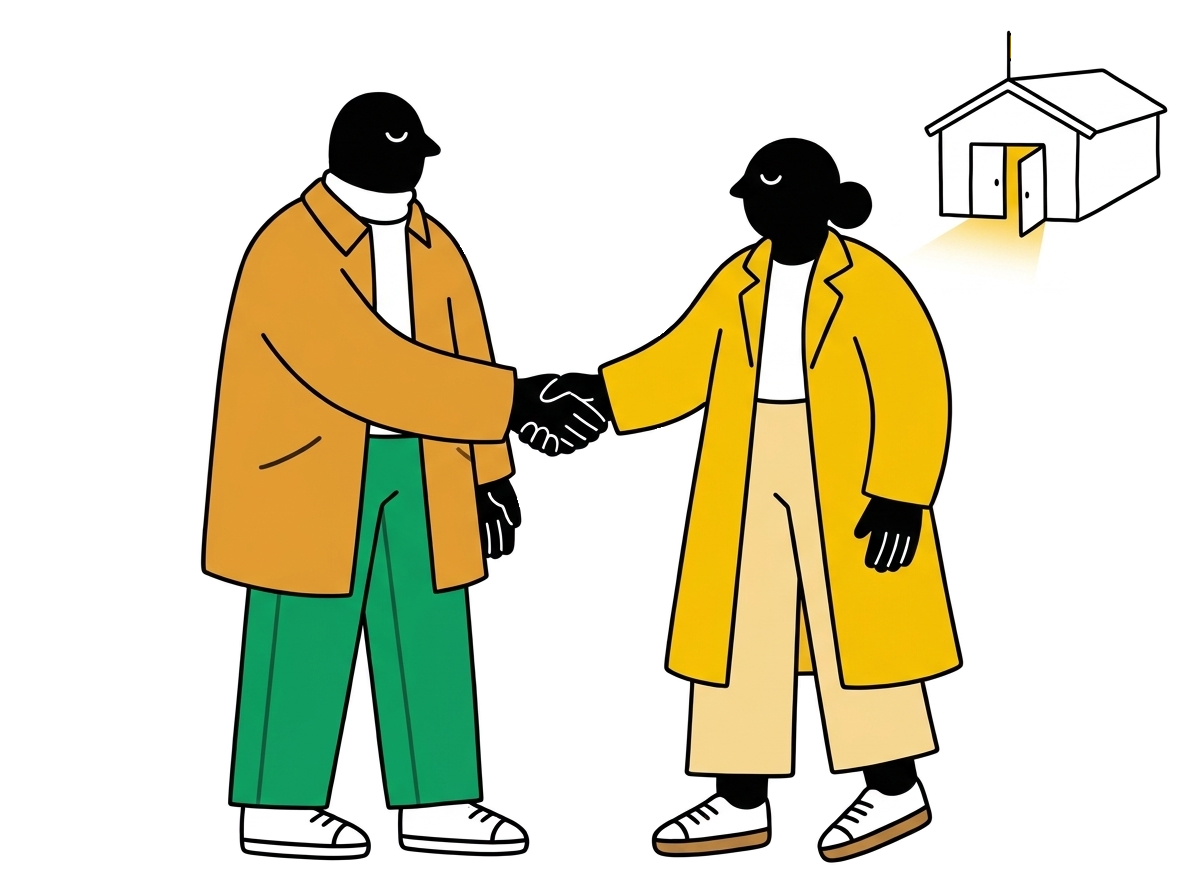
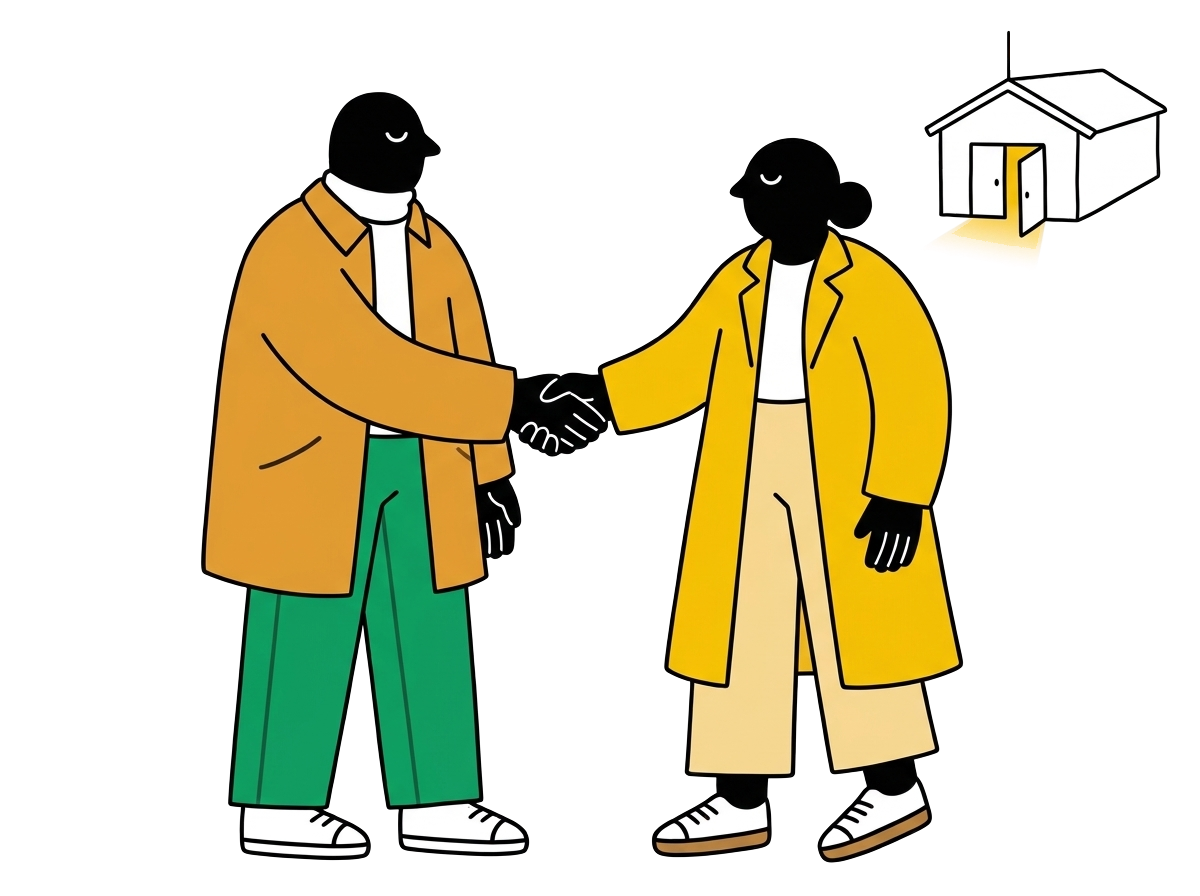
White-outline illustrations for the hero and Join band
Hero uses hero-art-outline; the steam lines get a matching thin white
outline. Join art is rebuilt from handshake-outline with the dots, flag
and sparks lifted into animated layers; the flag gets the white outline,
the dots and sparks stay plain yellow.

Changed region(s): [[0.7708, 0.25, 0.8942, 0.3125]]

diff --git a/index.html b/index.html
@@ -39,6 +39,7 @@ body{font-size:20px}
 .part picture,.part .hero-art{display:block;width:100%;height:auto;aspect-ratio:1/1}
 .psteam{position:absolute;inset:0;width:100%;height:100%;overflow:visible;pointer-events:none}
 .stm{transform-box:view-box}
+.psteam .sw-under{stroke:#fff;stroke-width:8.25} /* thin white outline, matching the drawing */
 @media (prefers-reduced-motion:no-preference){
   .stm{animation:steam 3s ease-in-out infinite}
   .stm2{animation-delay:-1.2s}
@@ -237,10 +238,10 @@ body{font-size:20px}
     <p class="psub">Firms ask for your expertise. They donate to the charity you choose: 100% of it, every time.</p>
     <div class="part">
       <picture>
-        <source srcset="images/hero-art-plain.webp" type="image/webp">
-        <img class="hero-art" src="images/hero-art-plain.png" width="1024" height="1024" fetchpriority="high" decoding="async" alt="Three people chatting over coffee at a round table: one typing on a laptop, one holding a mug, one thinking with a hand at his chin.">
+        <source srcset="images/hero-art-outline.webp" type="image/webp">
+        <img class="hero-art" src="images/hero-art-outline.png" width="1024" height="1024" fetchpriority="high" decoding="async" alt="Three people chatting over coffee at a round table: one typing on a laptop, one holding a mug, one thinking with a hand at his chin.">
       </picture>
-      <svg class="psteam" viewBox="0 0 1024 1024" aria-hidden="true" fill="none" stroke="#141414" stroke-width="3.3" stroke-linecap="round" stroke-linejoin="round"><g class="stm stm1"><path d="M417.5 440.0 C417.2 440.5 416.1 442.0 415.5 443.0 C414.9 444.0 414.1 445.0 414.0 446.0 C413.9 447.0 414.6 448.0 415.0 449.0 C415.4 450.0 415.8 451.0 416.5 452.0 C417.2 453.0 418.4 454.0 419.0 455.0 C419.6 456.0 419.8 457.0 420.0 458.0 C420.2 459.0 420.2 460.0 420.0 461.0 C419.8 462.0 419.0 463.2 418.5 464.0 C418.0 464.8 417.2 465.7 417.0 466.0"/><path d="M432.0 430.0 C431.6 430.5 430.2 432.0 429.5 433.0 C428.8 434.0 428.4 435.0 428.0 436.0 C427.6 437.0 427.0 438.0 427.0 439.0 C427.0 440.0 427.5 441.0 428.0 442.0 C428.5 443.0 429.3 444.0 430.0 445.0 C430.7 446.0 431.3 447.0 432.0 448.0 C432.7 449.0 433.6 450.0 434.0 451.0 C434.4 452.0 434.5 453.0 434.5 454.0 C434.5 455.0 434.4 456.0 434.0 457.0 C433.6 458.0 432.7 459.0 432.0 460.0 C431.3 461.0 430.3 462.3 430.0 463.0 C429.7 463.7 430.0 463.8 430.0 464.0"/><path d="M446.5 438.0 C446.1 438.5 444.6 440.0 444.0 441.0 C443.4 442.0 443.2 443.0 443.0 444.0 C442.8 445.0 442.8 446.0 443.0 447.0 C443.2 448.0 443.9 449.0 444.5 450.0 C445.1 451.0 445.9 452.0 446.5 453.0 C447.1 454.0 447.8 455.0 448.0 456.0 C448.2 457.0 448.3 458.0 448.0 459.0 C447.7 460.0 446.7 461.0 446.0 462.0 C445.3 463.0 444.3 464.5 444.0 465.0"/></g><g class="stm stm2"><path d="M595.0 384.0 C594.8 384.5 594.2 386.0 594.0 387.0 C593.8 388.0 593.7 389.0 594.0 390.0 C594.3 391.0 595.3 392.0 596.0 393.0 C596.7 394.0 597.7 395.0 598.0 396.0 C598.3 397.0 598.2 398.0 598.0 399.0 C597.8 400.0 596.8 401.3 596.5 402.0 C596.2 402.7 596.1 402.8 596.0 403.0"/><path d="M608.5 373.0 C608.1 373.5 606.6 375.0 606.0 376.0 C605.4 377.0 605.2 378.0 605.0 379.0 C604.8 380.0 604.8 381.0 605.0 382.0 C605.2 383.0 605.5 384.0 606.0 385.0 C606.5 386.0 607.3 387.0 608.0 388.0 C608.7 389.0 609.7 390.0 610.0 391.0 C610.3 392.0 610.1 393.0 610.0 394.0 C609.9 395.0 609.9 396.0 609.5 397.0 C609.1 398.0 608.0 399.2 607.5 400.0 C607.0 400.8 606.7 401.7 606.5 402.0"/><path d="M621.0 380.0 C620.6 380.5 619.0 382.0 618.5 383.0 C618.0 384.0 617.9 385.0 618.0 386.0 C618.1 387.0 618.6 388.0 619.0 389.0 C619.4 390.0 620.0 391.0 620.5 392.0 C621.0 393.0 621.8 394.0 622.0 395.0 C622.2 396.0 622.3 397.0 622.0 398.0 C621.7 399.0 620.5 400.2 620.0 401.0 C619.5 401.8 619.2 402.7 619.0 403.0"/></g></svg>
+      <svg class="psteam" viewBox="0 0 1024 1024" aria-hidden="true" fill="none" stroke="#141414" stroke-width="3.3" stroke-linecap="round" stroke-linejoin="round"><g class="stm stm1"><path class="sw-under" d="M417.5 440.0 C417.2 440.5 416.1 442.0 415.5 443.0 C414.9 444.0 414.1 445.0 414.0 446.0 C413.9 447.0 414.6 448.0 415.0 449.0 C415.4 450.0 415.8 451.0 416.5 452.0 C417.2 453.0 418.4 454.0 419.0 455.0 C419.6 456.0 419.8 457.0 420.0 458.0 C420.2 459.0 420.2 460.0 420.0 461.0 C419.8 462.0 419.0 463.2 418.5 464.0 C418.0 464.8 417.2 465.7 417.0 466.0"/><path class="sw-under" d="M432.0 430.0 C431.6 430.5 430.2 432.0 429.5 433.0 C428.8 434.0 428.4 435.0 428.0 436.0 C427.6 437.0 427.0 438.0 427.0 439.0 C427.0 440.0 427.5 441.0 428.0 442.0 C428.5 443.0 429.3 444.0 430.0 445.0 C430.7 446.0 431.3 447.0 432.0 448.0 C432.7 449.0 433.6 450.0 434.0 451.0 C434.4 452.0 434.5 453.0 434.5 454.0 C434.5 455.0 434.4 456.0 434.0 457.0 C433.6 458.0 432.7 459.0 432.0 460.0 C431.3 461.0 430.3 462.3 430.0 463.0 C429.7 463.7 430.0 463.8 430.0 464.0"/><path class="sw-under" d="M446.5 438.0 C446.1 438.5 444.6 440.0 444.0 441.0 C443.4 442.0 443.2 443.0 443.0 444.0 C442.8 445.0 442.8 446.0 443.0 447.0 C443.2 448.0 443.9 449.0 444.5 450.0 C445.1 451.0 445.9 452.0 446.5 453.0 C447.1 454.0 447.8 455.0 448.0 456.0 C448.2 457.0 448.3 458.0 448.0 459.0 C447.7 460.0 446.7 461.0 446.0 462.0 C445.3 463.0 444.3 464.5 444.0 465.0"/><path d="M417.5 440.0 C417.2 440.5 416.1 442.0 415.5 443.0 C414.9 444.0 414.1 445.0 414.0 446.0 C413.9 447.0 414.6 448.0 415.0 449.0 C415.4 450.0 415.8 451.0 416.5 452.0 C417.2 453.0 418.4 454.0 419.0 455.0 C419.6 456.0 419.8 457.0 420.0 458.0 C420.2 459.0 420.2 460.0 420.0 461.0 C419.8 462.0 419.0 463.2 418.5 464.0 C418.0 464.8 417.2 465.7 417.0 466.0"/><path d="M432.0 430.0 C431.6 430.5 430.2 432.0 429.5 433.0 C428.8 434.0 428.4 435.0 428.0 436.0 C427.6 437.0 427.0 438.0 427.0 439.0 C427.0 440.0 427.5 441.0 428.0 442.0 C428.5 443.0 429.3 444.0 430.0 445.0 C430.7 446.0 431.3 447.0 432.0 448.0 C432.7 449.0 433.6 450.0 434.0 451.0 C434.4 452.0 434.5 453.0 434.5 454.0 C434.5 455.0 434.4 456.0 434.0 457.0 C433.6 458.0 432.7 459.0 432.0 460.0 C431.3 461.0 430.3 462.3 430.0 463.0 C429.7 463.7 430.0 463.8 430.0 464.0"/><path d="M446.5 438.0 C446.1 438.5 444.6 440.0 444.0 441.0 C443.4 442.0 443.2 443.0 443.0 444.0 C442.8 445.0 442.8 446.0 443.0 447.0 C443.2 448.0 443.9 449.0 444.5 450.0 C445.1 451.0 445.9 452.0 446.5 453.0 C447.1 454.0 447.8 455.0 448.0 456.0 C448.2 457.0 448.3 458.0 448.0 459.0 C447.7 460.0 446.7 461.0 446.0 462.0 C445.3 463.0 444.3 464.5 444.0 465.0"/></g><g class="stm stm2"><path class="sw-under" d="M595.0 384.0 C594.8 384.5 594.2 386.0 594.0 387.0 C593.8 388.0 593.7 389.0 594.0 390.0 C594.3 391.0 595.3 392.0 596.0 393.0 C596.7 394.0 597.7 395.0 598.0 396.0 C598.3 397.0 598.2 398.0 598.0 399.0 C597.8 400.0 596.8 401.3 596.5 402.0 C596.2 402.7 596.1 402.8 596.0 403.0"/><path class="sw-under" d="M608.5 373.0 C608.1 373.5 606.6 375.0 606.0 376.0 C605.4 377.0 605.2 378.0 605.0 379.0 C604.8 380.0 604.8 381.0 605.0 382.0 C605.2 383.0 605.5 384.0 606.0 385.0 C606.5 386.0 607.3 387.0 608.0 388.0 C608.7 389.0 609.7 390.0 610.0 391.0 C610.3 392.0 610.1 393.0 610.0 394.0 C609.9 395.0 609.9 396.0 609.5 397.0 C609.1 398.0 608.0 399.2 607.5 400.0 C607.0 400.8 606.7 401.7 606.5 402.0"/><path class="sw-under" d="M621.0 380.0 C620.6 380.5 619.0 382.0 618.5 383.0 C618.0 384.0 617.9 385.0 618.0 386.0 C618.1 387.0 618.6 388.0 619.0 389.0 C619.4 390.0 620.0 391.0 620.5 392.0 C621.0 393.0 621.8 394.0 622.0 395.0 C622.2 396.0 622.3 397.0 622.0 398.0 C621.7 399.0 620.5 400.2 620.0 401.0 C619.5 401.8 619.2 402.7 619.0 403.0"/><path d="M595.0 384.0 C594.8 384.5 594.2 386.0 594.0 387.0 C593.8 388.0 593.7 389.0 594.0 390.0 C594.3 391.0 595.3 392.0 596.0 393.0 C596.7 394.0 597.7 395.0 598.0 396.0 C598.3 397.0 598.2 398.0 598.0 399.0 C597.8 400.0 596.8 401.3 596.5 402.0 C596.2 402.7 596.1 402.8 596.0 403.0"/><path d="M608.5 373.0 C608.1 373.5 606.6 375.0 606.0 376.0 C605.4 377.0 605.2 378.0 605.0 379.0 C604.8 380.0 604.8 381.0 605.0 382.0 C605.2 383.0 605.5 384.0 606.0 385.0 C606.5 386.0 607.3 387.0 608.0 388.0 C608.7 389.0 609.7 390.0 610.0 391.0 C610.3 392.0 610.1 393.0 610.0 394.0 C609.9 395.0 609.9 396.0 609.5 397.0 C609.1 398.0 608.0 399.2 607.5 400.0 C607.0 400.8 606.7 401.7 606.5 402.0"/><path d="M621.0 380.0 C620.6 380.5 619.0 382.0 618.5 383.0 C618.0 384.0 617.9 385.0 618.0 386.0 C618.1 387.0 618.6 388.0 619.0 389.0 C619.4 390.0 620.0 391.0 620.5 392.0 C621.0 393.0 621.8 394.0 622.0 395.0 C622.2 396.0 622.3 397.0 622.0 398.0 C621.7 399.0 620.5 400.2 620.0 401.0 C619.5 401.8 619.2 402.7 619.0 403.0"/></g></svg>
     </div>
   </div>
 </section>
@@ -338,7 +339,7 @@ body{font-size:20px}
         <img class="jimg" src="images/handshake.png" width="1200" height="896" loading="lazy" decoding="async" alt="Two people shake hands. A dotted yellow path loops from their hands to a small community hall with a yellow flag and an open door: their chosen charity.">
       </picture>
       <svg class="jfront" viewBox="0 0 1200 896" aria-hidden="true">
-        <g class="jflag"><path d="M1010 33 C1022 29 1034 38 1046 33 C1050 32 1054 32 1058 34 L1045 47 L1058 60 C1048 63 1036 55 1024 60 C1018 62 1013 61 1010 60 Z" fill="#F7C21A" stroke="#141414" stroke-width="2.6" stroke-linejoin="round"><animate attributeName="d" dur="2.5s" repeatCount="indefinite" calcMode="spline" keyTimes="0;0.33;0.66;1" keySplines=".45 0 .55 1;.45 0 .55 1;.45 0 .55 1" values="M1010 33 C1022 29 1034 38 1046 33 C1050 32 1054 32 1058 34 L1045 47 L1058 60 C1048 63 1036 55 1024 60 C1018 62 1013 61 1010 60 Z;M1010 33 C1021 37 1033 28 1046 35 C1050 37 1054 34 1058 37 L1046 49 L1058 62 C1048 59 1035 64 1024 59 C1018 56 1013 59 1010 60 Z;M1010 33 C1023 31 1032 34 1046 31 C1050 30 1054 31 1058 32 L1044 46 L1058 59 C1047 61 1037 57 1024 61 C1017 63 1013 60 1010 60 Z;M1010 33 C1022 29 1034 38 1046 33 C1050 32 1054 32 1058 34 L1045 47 L1058 60 C1048 63 1036 55 1024 60 C1018 62 1013 61 1010 60 Z"/></path></g>
+        <g class="jflag"><path d="M1010 33 C1022 29 1034 38 1046 33 C1050 32 1054 32 1058 34 L1045 47 L1058 60 C1048 63 1036 55 1024 60 C1018 62 1013 61 1010 60 Z" fill="#fff" stroke="#fff" stroke-width="10" stroke-linejoin="round"><animate attributeName="d" dur="2.5s" repeatCount="indefinite" calcMode="spline" keyTimes="0;0.33;0.66;1" keySplines=".45 0 .55 1;.45 0 .55 1;.45 0 .55 1" values="M1010 33 C1022 29 1034 38 1046 33 C1050 32 1054 32 1058 34 L1045 47 L1058 60 C1048 63 1036 55 1024 60 C1018 62 1013 61 1010 60 Z;M1010 33 C1021 37 1033 28 1046 35 C1050 37 1054 34 1058 37 L1046 49 L1058 62 C1048 59 1035 64 1024 59 C1018 56 1013 59 1010 60 Z;M1010 33 C1023 31 1032 34 1046 31 C1050 30 1054 31 1058 32 L1044 46 L1058 59 C1047 61 1037 57 1024 61 C1017 63 1013 60 1010 60 Z;M1010 33 C1022 29 1034 38 1046 33 C1050 32 1054 32 1058 34 L1045 47 L1058 60 C1048 63 1036 55 1024 60 C1018 62 1013 61 1010 60 Z"/></path><path d="M1010 33 C1022 29 1034 38 1046 33 C1050 32 1054 32 1058 34 L1045 47 L1058 60 C1048 63 1036 55 1024 60 C1018 62 1013 61 1010 60 Z" fill="#F7C21A" stroke="#141414" stroke-width="2.6" stroke-linejoin="round"><animate attributeName="d" dur="2.5s" repeatCount="indefinite" calcMode="spline" keyTimes="0;0.33;0.66;1" keySplines=".45 0 .55 1;.45 0 .55 1;.45 0 .55 1" values="M1010 33 C1022 29 1034 38 1046 33 C1050 32 1054 32 1058 34 L1045 47 L1058 60 C1048 63 1036 55 1024 60 C1018 62 1013 61 1010 60 Z;M1010 33 C1021 37 1033 28 1046 35 C1050 37 1054 34 1058 37 L1046 49 L1058 62 C1048 59 1035 64 1024 59 C1018 56 1013 59 1010 60 Z;M1010 33 C1023 31 1032 34 1046 31 C1050 30 1054 31 1058 32 L1044 46 L1058 59 C1047 61 1037 57 1024 61 C1017 63 1013 60 1010 60 Z;M1010 33 C1022 29 1034 38 1046 33 C1050 32 1054 32 1058 34 L1045 47 L1058 60 C1048 63 1036 55 1024 60 C1018 62 1013 61 1010 60 Z"/></path></g>
         <g class="jspark"><line x1="563.8" y1="316.0" x2="564.6" y2="346.0" stroke="#F7C21A" stroke-width="6" stroke-linecap="round"/><line x1="600.6" y1="325.7" x2="583.7" y2="351.8" stroke="#F7C21A" stroke-width="6" stroke-linecap="round"/><line x1="527.8" y1="328.1" x2="544.4" y2="353.4" stroke="#F7C21A" stroke-width="6" stroke-linecap="round"/></g>
       </svg>
       <span class="jlabel" aria-hidden="true">Your chosen charity</span>
